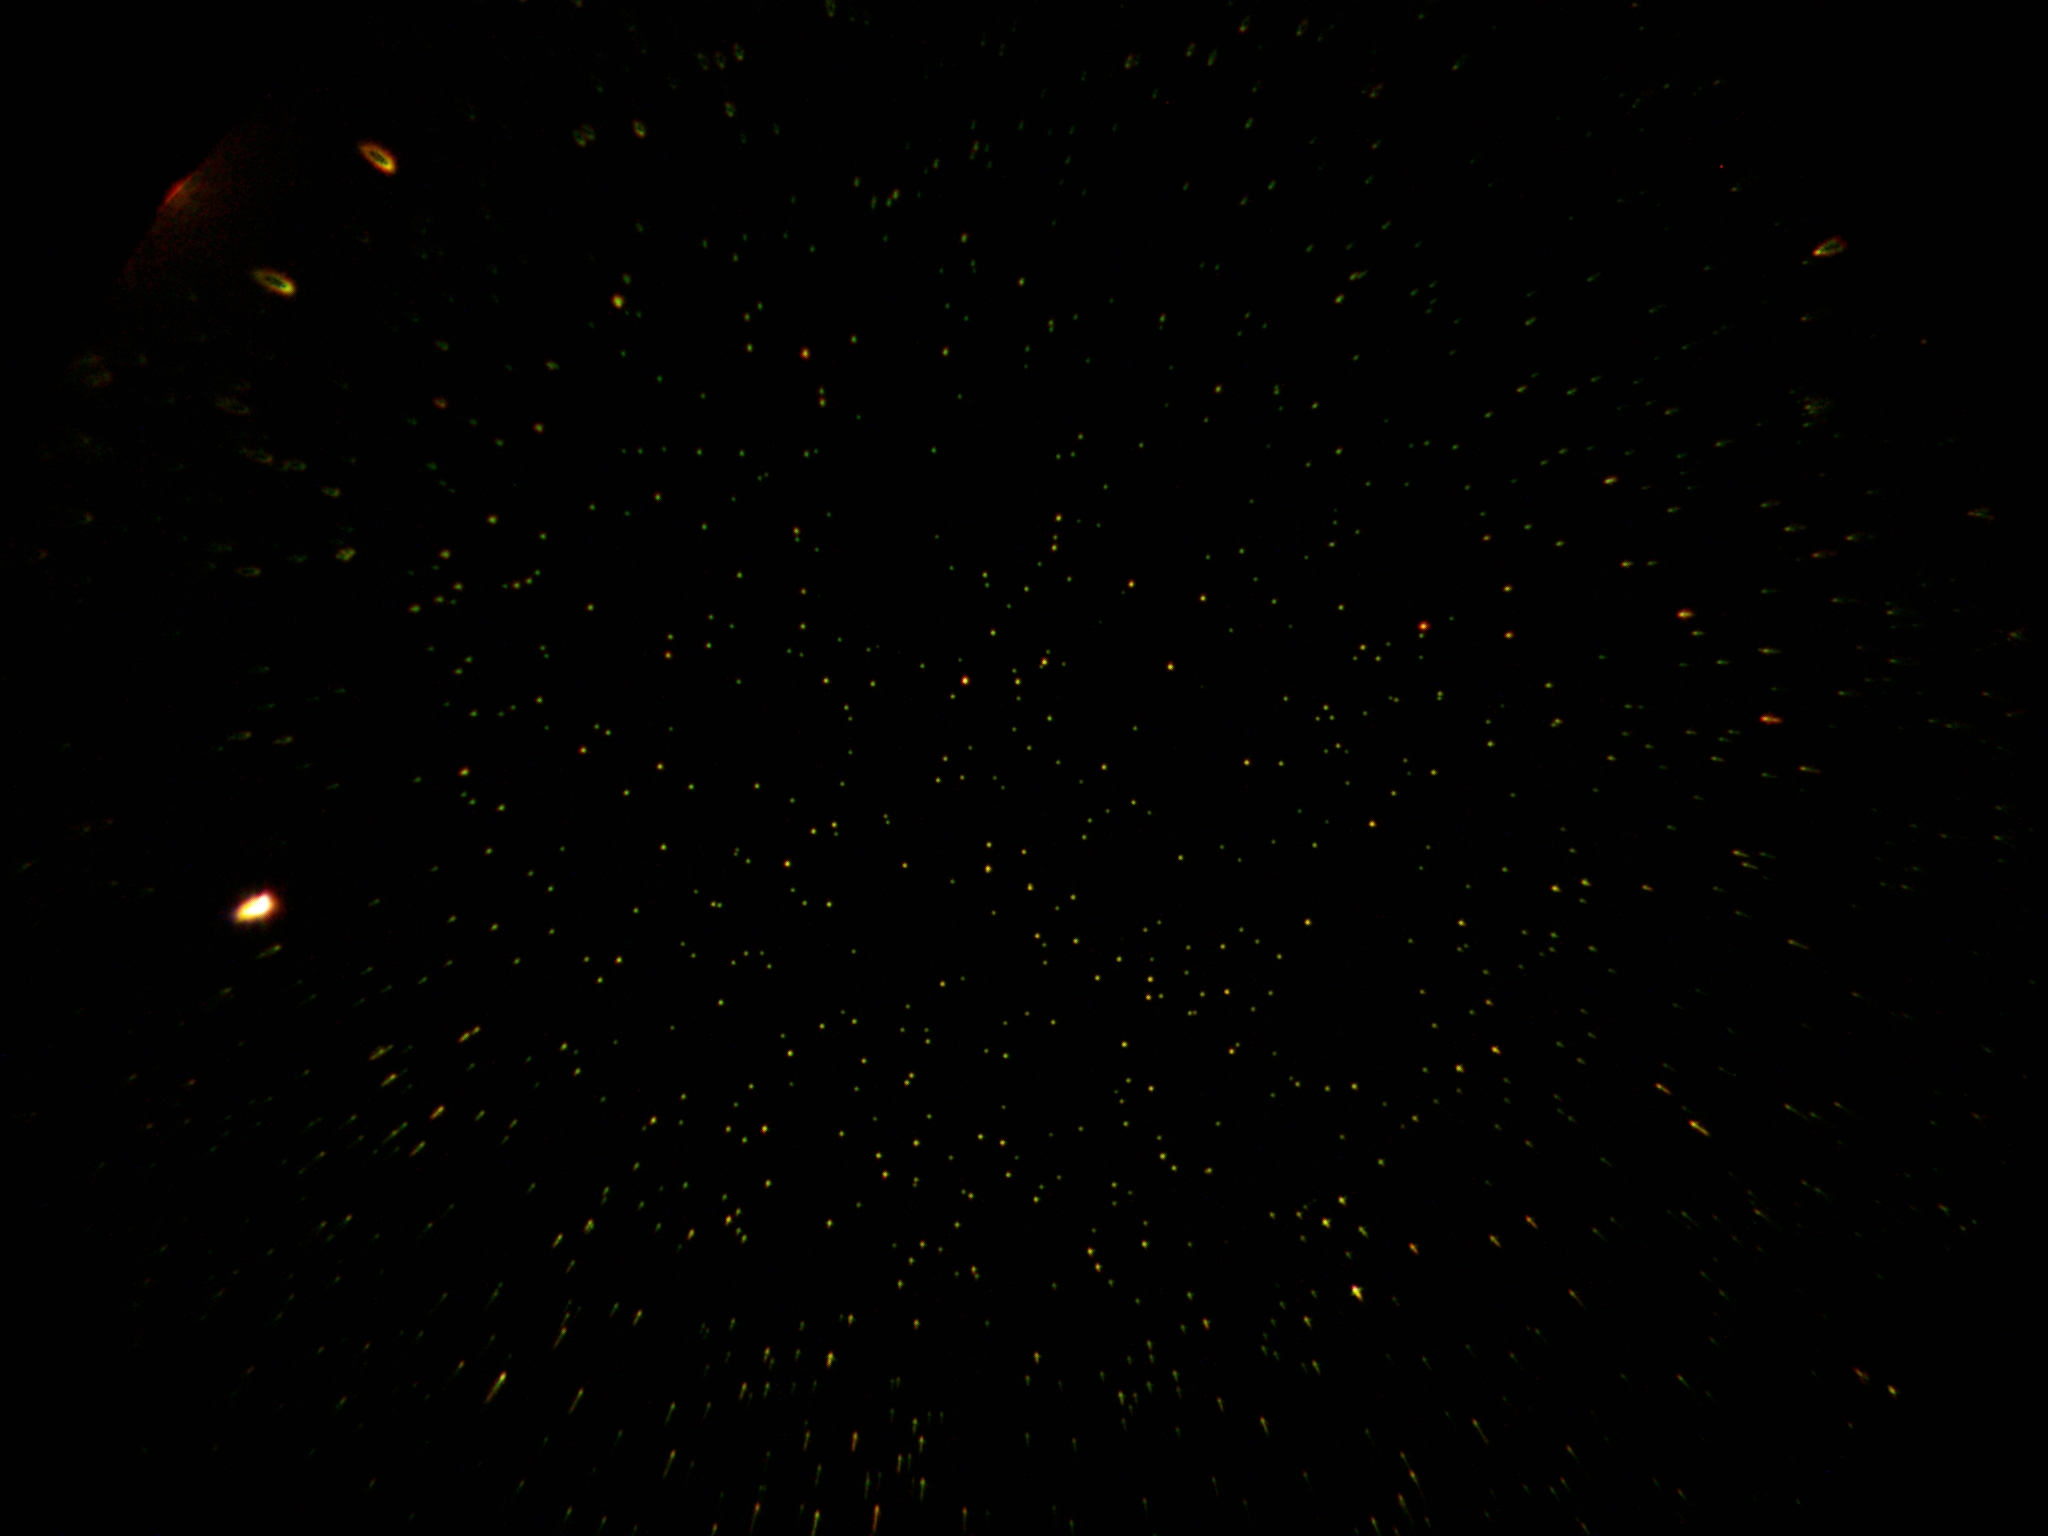
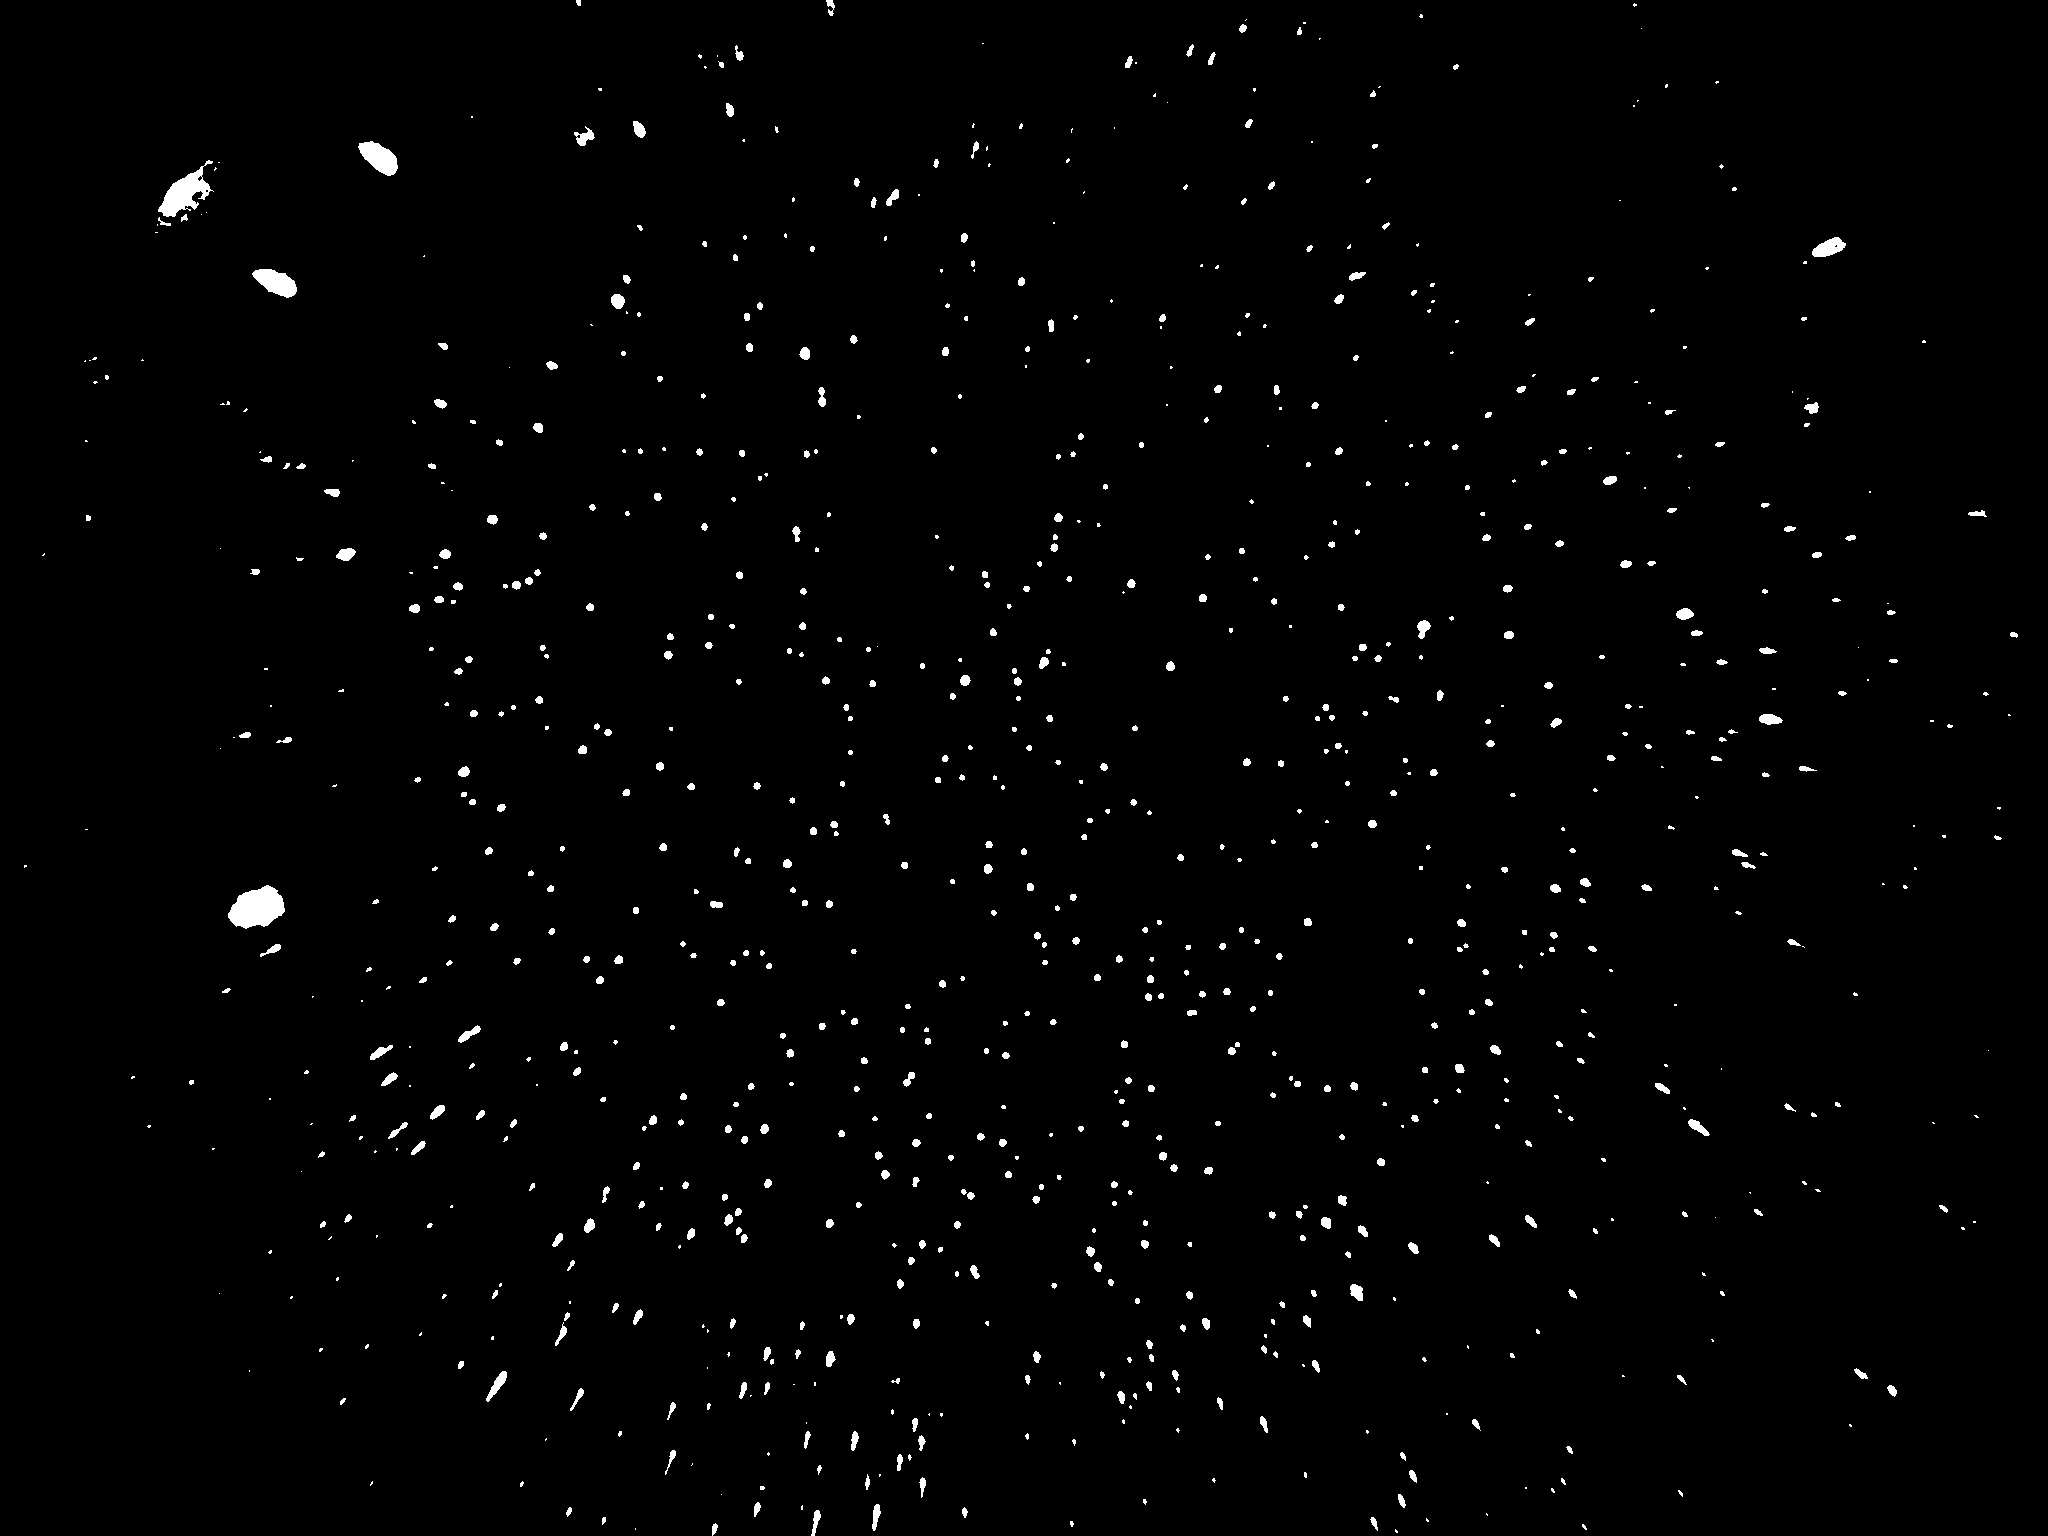
Create rough true masks

diff --git a/threshold.py b/threshold.py
@@ -1,15 +1,15 @@
 import cv2
 import matplotlib.pyplot as plt
+import os
 
 
-
-def thresh(path):
+def thresh(path, value):
     image = cv2.imread(path, cv2.IMREAD_GRAYSCALE)
     image = cv2.GaussianBlur(image,(5,5),0)
 
     #global threshold
-    threshold = 18
-    thresh_value, thresh_image = cv2.threshold(image,threshold,255,cv2.THRESH_BINARY)
+    
+    thresh_value, thresh_image = cv2.threshold(image,value,255,cv2.THRESH_BINARY)
 
 
     # Plot the original and filtered images
@@ -28,8 +28,15 @@ def thresh(path):
     #only writes the images to file after you close the graph window
     cv2.imwrite(path[:-4] + ".jpg", thresh_image)
 
+path = "./dataset"
+files = []
+for file in os.listdir(path):
+    if file[-4:] == ".png":
+        files.append(file)
+        thresh(path + "/" + file, 18) # 18 seems to work pretty well
+        # will likely have to tailor true masks eventually
 
-paths = ("./dataset/region1_FOV.PNG", "./dataset/region2_FOV.PNG",
-            "./dataset/region3_FOV.PNG", "./dataset/region4_FOV.png")
-for path in paths:
-    thresh(path)
+# ['FOV1.png', 'FOV2.png', 'FOV3.png', 'FOV4.png', 'Region1_FOV (2).png', 
+#  'Region2_3_FOV.png', 'Region4_FOV (2).png', 'region4_FOV.png', 'Region5_FOV.png', 
+#  'Region6_FOV.png', 'Region7_FOV.png']
+
